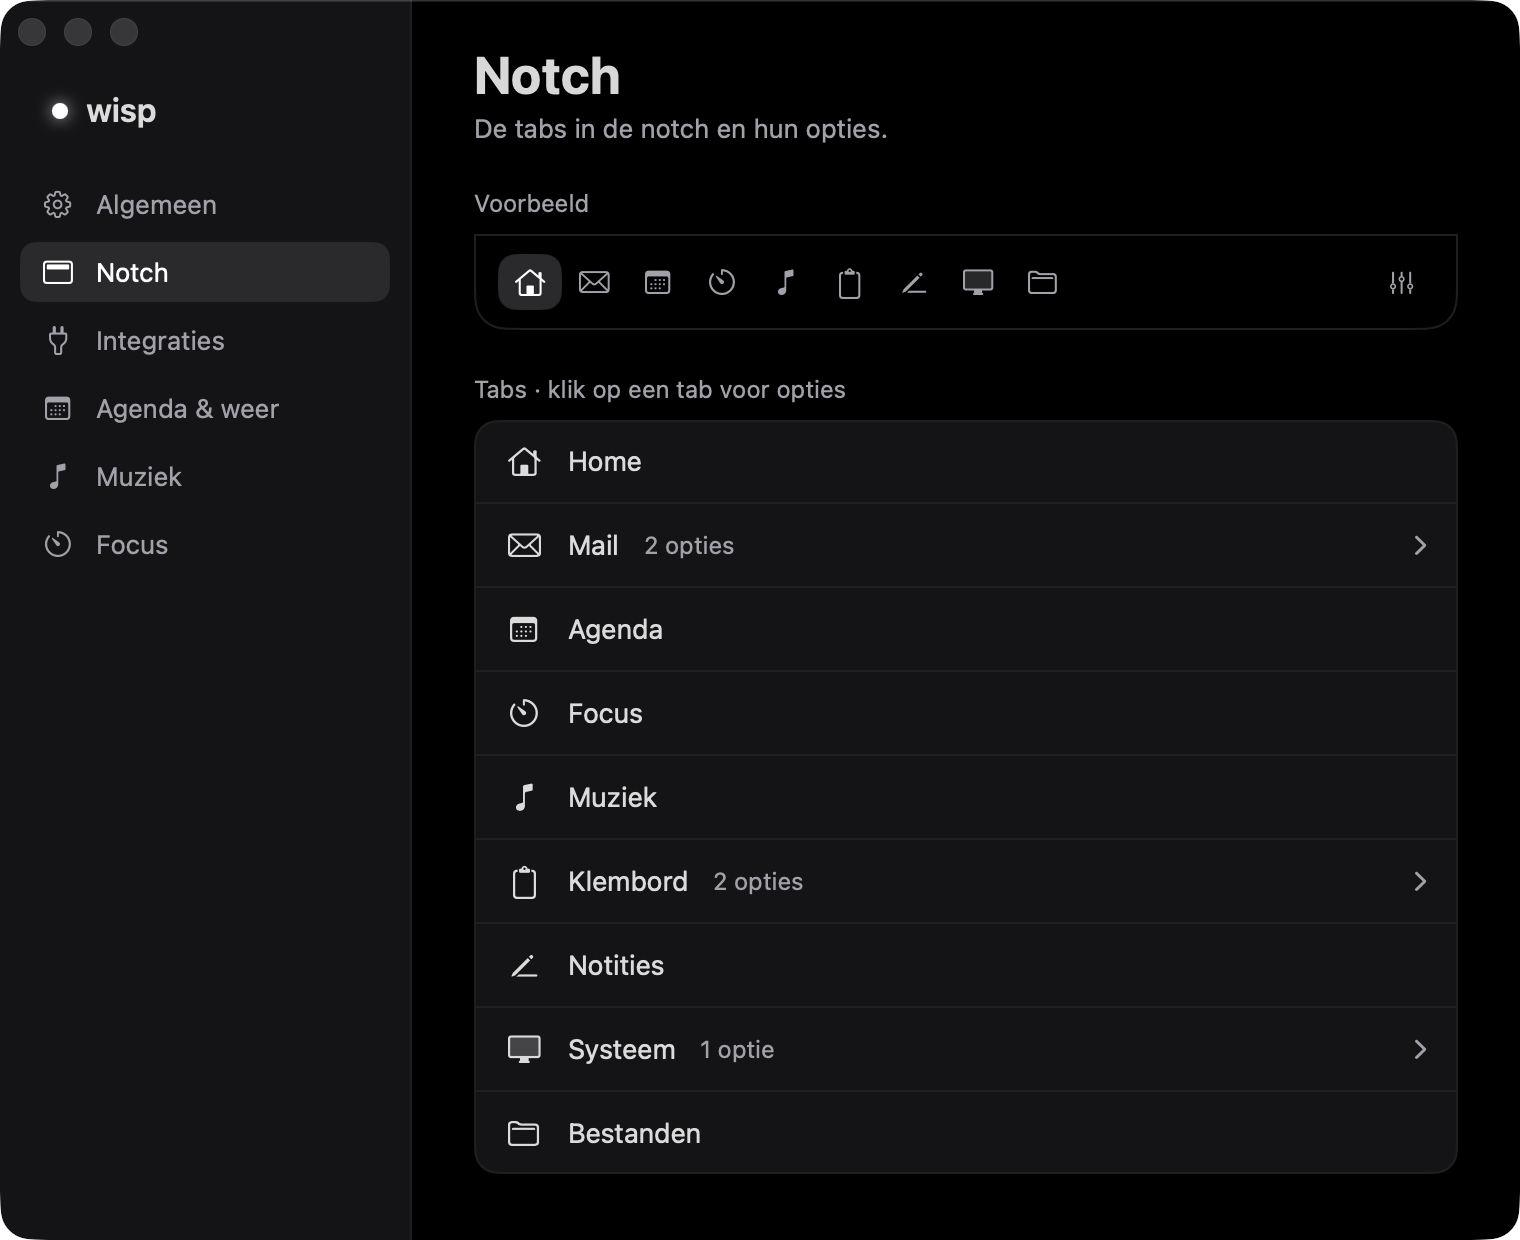
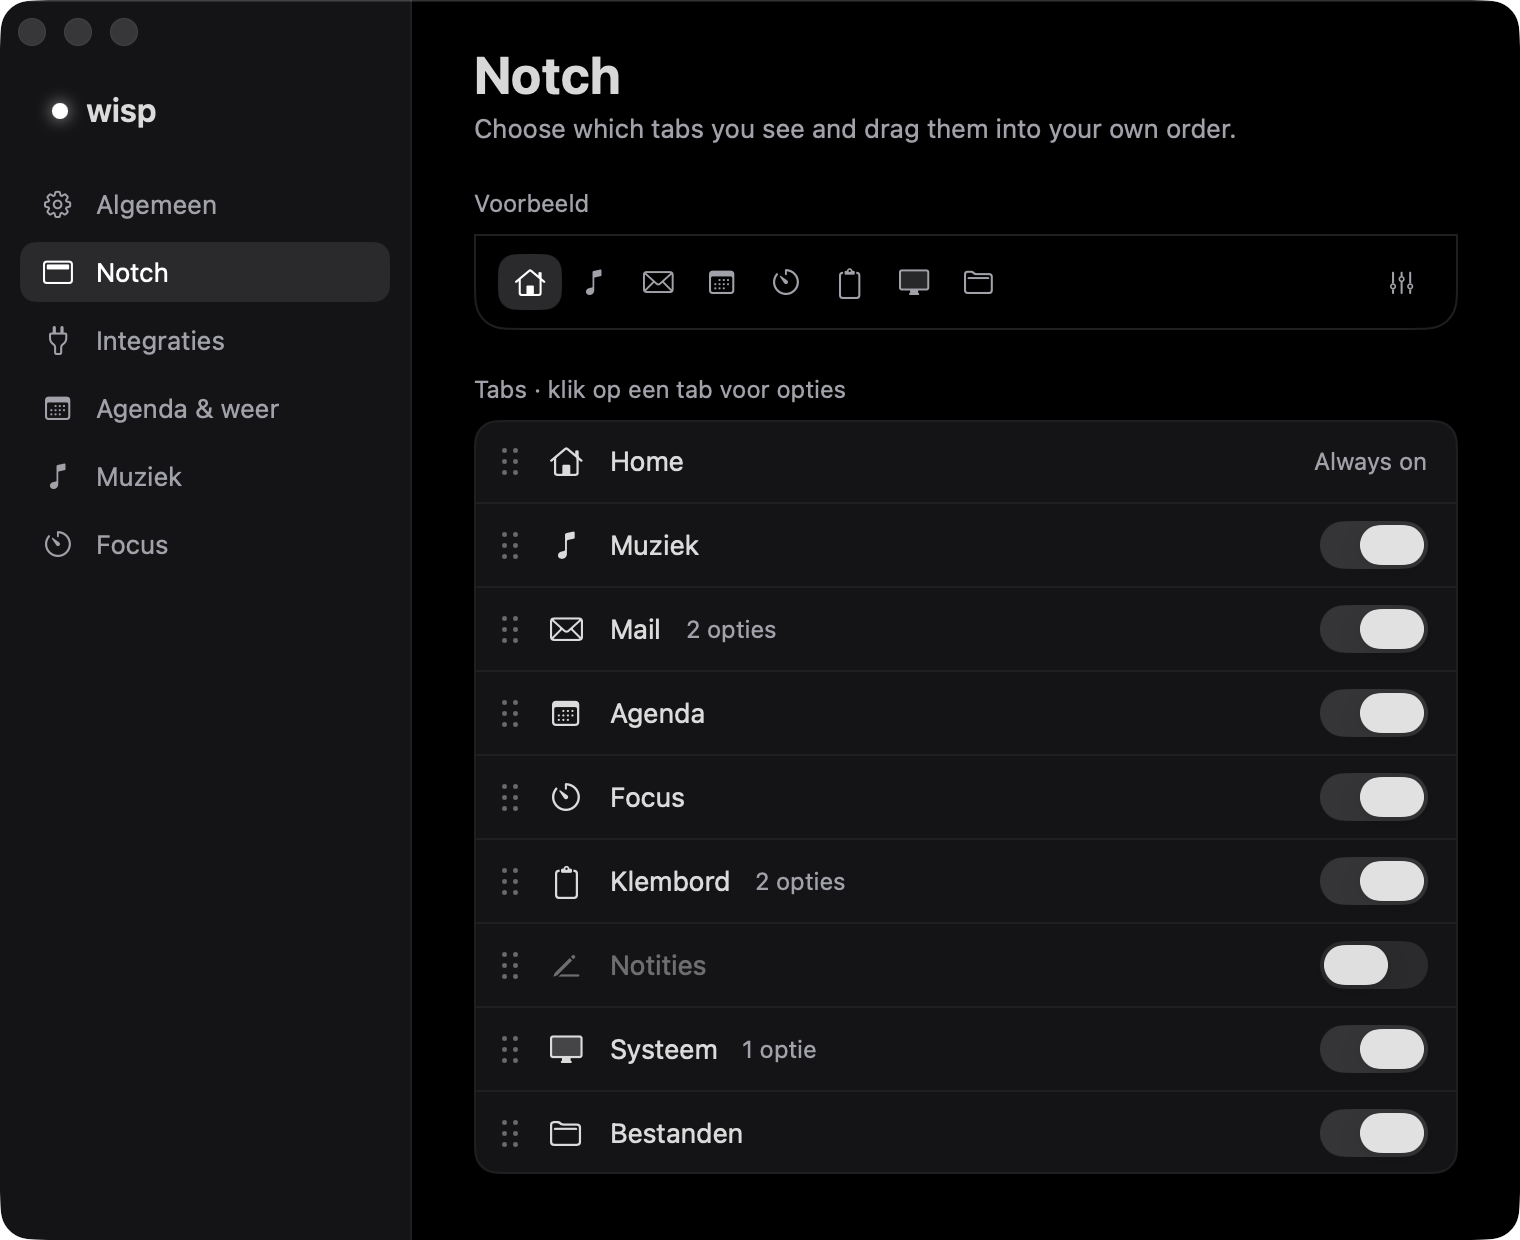
docs: tab order and hidden tabs

diff --git a/docs/ARCHITECTURE.md b/docs/ARCHITECTURE.md
@@ -151,6 +151,7 @@ Open-Meteo (HTTPS, no key) ─► WeatherStore ┘
 ## Settings and secrets
 
 - The Settings window (boards 10.1–10.6) is one `NSWindow` with a full-size content view: `SettingsView` draws the sidebar and the page that `SettingsNavigation.shared.page` names, so other places can open a given page (the Mail tab's *Connect Gmail* opens *Integrations*). Pages are built from `SettingsPage`, `SettingsGroup` (a header above a card; rows split by hairlines) and `SettingsRow`. The options of single tabs (Mail, Clipboard, System) sit under *Notch*, behind a click on the tab.
+- The tab bar shows `Preferences.visibleTabs`: `tabOrder` (all tabs, saved as `tabOrder`; tabs a later version adds go at the end) minus `hiddenTabs` (`hiddenTabs`; never Home). Settings → Notch reorders with SwiftUI drag and drop (`onDrag` / `DropDelegate`, moving live while hovering). Opening the notch on a hidden tab, or hiding the open one, shows Home.
 
 - `Preferences` (UserDefaults): accent colour, close delay, sounds, open at login (`SMAppService`), and the language (`AppleLanguages` in wisp's own domain, the same key System Settings → Language & Region → Apps uses; applied after a restart). `Spectrum` keeps the spectrum permission choice (`spectrumConsent`); `AgendaStore` the hidden calendars, the shift calendar, the ride and how you travel (`agenda…`); `WeatherStore` the place (`weatherPlace`); `FocusStore` the duration, the two options, the learned tasks and today's numbers (`focus…`).
 - `Keychain`: generic passwords under the service `com.ahmadalasmi.wisp`, accessible after first unlock, this device only. Nothing secret is ever written to UserDefaults, to disk or to git.

diff --git a/docs/DESIGN.md b/docs/DESIGN.md
@@ -204,7 +204,7 @@ A 760 × 620 pt window with the title bar drawn over it (boards 10.1–10.6), al
 
 Built in the same style, not on the boards (open to a design):
 
-- **Notch**: a tab's options open below its row (indented under the title, small switches); tabs without options have no chevron. The switches, drag handles and Home tiles of board 10.1 come with #24.
+- **Notch**: a tab's options open below its row (indented under the title, small switches) when you click the row. Rows move out of the way while you drag one (whole row is the handle); a switched-off tab's icon and title are dimmed. The Home tiles of board 10.1 come once GitHub, Notion and WHOOP exist.
 - **Integrations**: *Add integration* is a menu (only Gmail for now) and dims when everything is added. Gmail's *Manage* opens a sheet with address and app password; ✕ asks before it disconnects. Music has *Manage* (opens the Music page) but no ✕. The dot is the service's colour; errors show in the grey line.
 - **Calendar & weather**: without access, one row with *Give access* or *Open System Settings*. *Change* opens a search sheet.
 - **Music**: macOS doesn't tell apps whether system audio is allowed, so the dot shows wisp's own switch (*On* / *Off*).

diff --git a/docs/SPEC.md b/docs/SPEC.md
@@ -100,7 +100,7 @@ Rechts: **Instellingen** (open het Settings-venster).
 
 ## Settings-aanpassingen
 
-> **Stand van zaken:** een venster met zijbalk (boards 10.1–10.6): Algemeen (taal, accentkleur, sluitvertraging, geluiden, opstarten bij inloggen, Claude Code-hooks), Notch (de opties per tab), Integraties (Gmail, Muziek), Agenda & weer (agenda's, diensten, reistijd en reiswijze, plaats), Muziek (spectrum) en Focus (standaardduur, Niet storen, muziek, geleerde koppelingen). Tabs aan/uit en volgorde, Home-tegels, sneltoets, extra muziekopties en zelf koppelingen toevoegen nog niet (#24–#27).
+> **Stand van zaken:** een venster met zijbalk (boards 10.1–10.6): Algemeen (taal, accentkleur, sluitvertraging, geluiden, opstarten bij inloggen, Claude Code-hooks), Notch (de opties per tab), Integraties (Gmail, Muziek), Agenda & weer (agenda's, diensten, reistijd en reiswijze, plaats), Muziek (spectrum) en Focus (standaardduur, Niet storen, muziek, geleerde koppelingen). Tabs aan/uit en slepen naar je eigen volgorde zijn er ook. Home-tegels, sneltoets, extra muziekopties en zelf koppelingen toevoegen nog niet (#24–#27).
 
 - Bovenaan: accentkleur kiezen (4 opties).
 - Sectie **Tabs**: tabs aan/uit en volgorde.

diff --git a/docs/ROADMAP.md b/docs/ROADMAP.md
@@ -7,7 +7,7 @@ What is planned, roughly in order. Every item becomes its own branch and pull re
 | Item | Notes | Tracking |
 |---|---|---|
 | **Files tab** | The drop zone, restyled. | |
-| **Choose and reorder tabs** | Tabs on/off, drag to reorder, pick the Home tiles. Board 10.1. | [#24](https://github.com/ahmad-sy1/wisp/issues/24) |
+| **Home tiles** | Pick the Home tiles as chips (board 10.1), once GitHub, Notion and WHOOP exist. | [#24](https://github.com/ahmad-sy1/wisp/issues/24) |
 | **Keyboard shortcut** | Open the notch with ⌥Space (changeable). Board 10.2. | [#25](https://github.com/ahmad-sy1/wisp/issues/25) |
 | **Music settings** | Mini spectrum on/off, battery saver, which sources show. Board 10.5. | [#26](https://github.com/ahmad-sy1/wisp/issues/26) |
 | **Focus task rules** | See, add and remove app/project/site → task rules. Board 10.6. | [#27](https://github.com/ahmad-sy1/wisp/issues/27) |

diff --git a/README.md b/README.md
@@ -124,7 +124,7 @@ cd wisp
 
 ## Setup
 
-Open **Settings**: click the notch, then the sliders icon on the right. On a full menu bar the wisp icon can hide behind the notch; opening wisp again from Spotlight also brings up Settings. The window has a page per topic: *General*, *Notch* (each tab's options), *Integrations*, *Calendar & weather*, *Music* and *Focus*.
+Open **Settings**: click the notch, then the sliders icon on the right. On a full menu bar the wisp icon can hide behind the notch; opening wisp again from Spotlight also brings up Settings. The window has a page per topic: *General*, *Notch* (which tabs show, their order by drag and drop, and each tab's options), *Integrations*, *Calendar & weather*, *Music* and *Focus*.
 
 | What | Why | How |
 |---|---|---|

diff --git a/CHANGELOG.md b/CHANGELOG.md
@@ -2,6 +2,7 @@
 
 ## Unreleased
 
+- Settings → Notch: switch tabs on or off and drag them into your own order; the tab bar follows (board 10.1, #24)
 - Settings is a window with a sidebar: General, Notch (each tab's options), Integrations, Calendar & weather, Music and Focus (boards 10.1–10.6, #28); the departure card says how you travel (*22 min fietsen*)
 - New mail peeks out of the notch with *Open / Delete / Later* (Delete moves it to the Gmail trash), and the closed notch shows the unread count; both can be switched off (board 8)
 - System tab: battery, AirPods, CPU with the busiest app, storage, and the Wi-Fi name (with Location access from Settings) (board 7)
